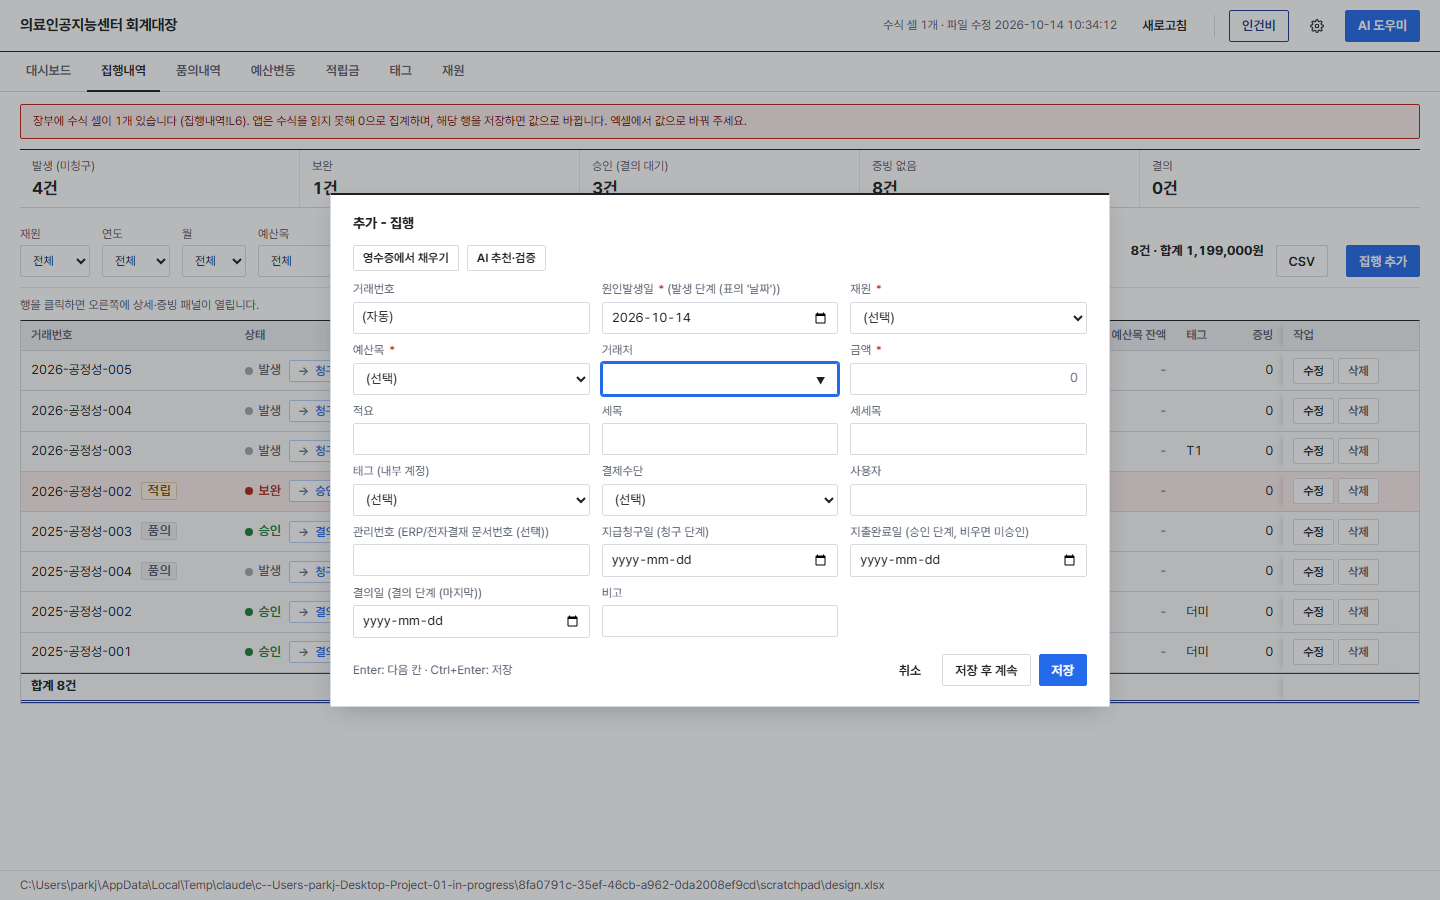
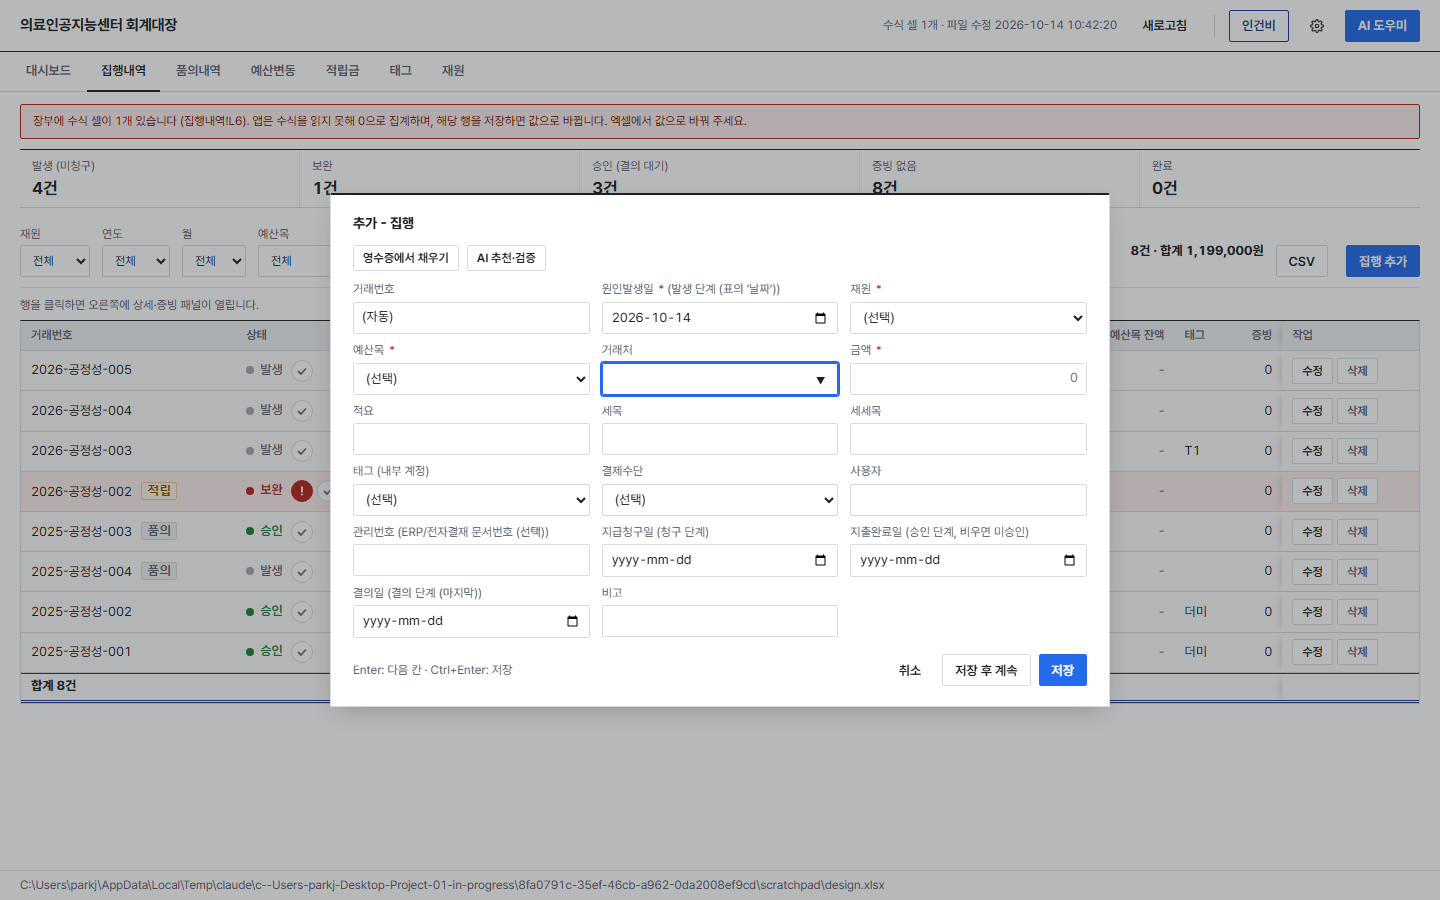
집행내역: 보완 토글(!) 아이콘, 결의 등록 시 '완료' 표시, 거래별 누적 예산목 잔액

diff --git a/app/static/app.js b/app/static/app.js
@@ -13,8 +13,8 @@ const mmdd = d => (typeof d === "string" && /^\d{4}-\d{2}-\d{2}$/.test(d)) ? d.s
 const IDENT = { funds: ["재원코드"], exec: ["거래번호"], req: ["품의번호"], tags: ["태그명"], budget: ["재원", "변경회차", "신청일자"], deposit: ["일자", "거래처", "구분", "금액"] };
 const F = k => document.getElementById("f-" + k);
 // 단계 ↔ 날짜: 발생=원인발생일, 청구=지급청구일, (보완=수동 표시), 승인=지출완료일, 결의=결의일
-const STATUS_LABEL = { 발생: "발생", 청구: "청구", 보완: "보완", 완료: "승인", 결의: "결의" };
-const STATUS_HELP = { 발생: "원인발생일만 있음. 다음: 청구(지급청구일)", 청구: "지급청구일 등록됨. 다음: 승인(지출완료일)", 보완: "서류·증빙 보완이 필요하다고 표시한 건", 완료: "지출완료일 등록됨(승인). 다음: 결의(결의일)", 결의: "결의일 등록됨 (마지막 단계)" };
+const STATUS_LABEL = { 발생: "발생", 청구: "청구", 보완: "보완", 완료: "승인", 결의: "완료" };  // 결의일이 등록되면 '완료'로 표시
+const STATUS_HELP = { 발생: "원인발생일만 있음. 다음: 청구(지급청구일)", 청구: "지급청구일 등록됨. 다음: 승인(지출완료일)", 보완: "서류·증빙 보완이 필요하다고 표시한 건 (청구 단계)", 완료: "지출완료일 등록됨(승인). 다음: 결의(결의일)", 결의: "결의일 등록됨, 완료" };
 // 상태 열의 다음 단계 버튼: [동작, 라벨, 설명]
 const NEXT_STEP = { 발생: ["claim", "청구", "지급청구일을 오늘로 등록"], 청구: ["complete", "승인", "지출완료일을 오늘로 등록"], 보완: ["complete", "승인", "지출완료일을 오늘로 등록 (보완 해제)"], 완료: ["resolve", "결의", "결의일을 오늘로 등록 (마지막 단계)"] };
 const DATE_STAGE = { 원인발생일: "발생", 지급청구일: "청구", 지출완료일: "승인", 결의일: "결의" };  // 폼 필드 (예산목 이름에 괄호·점이 있어 CSS 선택자 불가)
@@ -28,7 +28,7 @@ const COLS = {
   exec: [
     { k: "거래번호", w: 1 }, { k: "상태", t: "badge" }, { k: "관리번호", minor: true }, { k: "원인발생일", t: "date", label: "날짜" }, { k: "지급청구일", t: "date", hide: true },
     { k: "지출완료일", t: "date", hide: true }, { k: "결의일", t: "date", hide: true }, { k: "재원" }, { k: "예산목" }, { k: "세목" }, { k: "세세목", minor: true },
-    { k: "거래처", hide: true }, { k: "적요", t: "title", sub: "거래처" }, { k: "결제수단" }, { k: "금액", t: "num", amt: true }, { k: "예산목 잔액", t: "num", calc: r => availableBudget(r["재원"], r["예산목"]), title: "이 건의 재원·예산목 가용잔액 (예산현액 − 집행 − 품의대기)" }, { k: "사용자", minor: true }, { k: "태그" }, { k: "증빙", t: "num", calc: r => evidCount(r), title: "등록된 증빙 파일 수" }, { k: "비고", wrap: true, minor: true },
+    { k: "거래처", hide: true }, { k: "적요", t: "title", sub: "거래처" }, { k: "결제수단" }, { k: "금액", t: "num", amt: true }, { k: "예산목 잔액", t: "num", calc: r => runningBalance(r), title: "이 거래까지 반영한 재원·예산목 잔액 (예산현액 − 원인발생일 순 누적 집행). 품의대기는 제외" }, { k: "사용자", minor: true }, { k: "태그" }, { k: "증빙", t: "num", calc: r => evidCount(r), title: "등록된 증빙 파일 수" }, { k: "비고", wrap: true, minor: true },
   ],
   req: [
     { k: "품의번호" }, { k: "상태", t: "badge" }, { k: "원인발생일", t: "date" }, { k: "지출예정일", t: "date" }, { k: "재원" },
@@ -130,7 +130,7 @@ async function api(method, url, body) {
 
 async function load() {
   try {
-    DATA = await api("GET", "/api/all");
+    DATA = await api("GET", "/api/all"); RUN_BAL = null;
     COLS.budget = [{ k: "재원" }, { k: "변경회차" }, { k: "신청일자", t: "date" }, { k: "변경사유", wrap: true },
       ...DATA.meta.budget_items.map((i, n) => ({ k: i, t: "num", amt: n === 0 })), { k: "합계", t: "num", calc: r => DATA.meta.budget_items.reduce((a, i) => a + (r[i] || 0), 0) }];
     renderStatus();
@@ -278,7 +278,8 @@ function renderList(kind) {
       }
       if (c.t === "badge") {
         const nx = kind === "exec" ? NEXT_STEP[v] : null;
-        return `<td class="st-cell"><span class="badge ${esc(v)}" title="${esc(STATUS_HELP[v] || "")}">${esc(STATUS_LABEL[v] || v)}</span>${nx ? `<button type="button" class="next" data-act="xact" data-action="${nx[0]}" data-row="${r._row}" title="다음 단계로: ${esc(nx[1])} (${esc(nx[2])})" aria-label="다음 단계로: ${esc(nx[1])}"><svg viewBox="0 0 12 12" aria-hidden="true" focusable="false"><path d="M2.5 6.5l2.5 2.5 4.5-5" fill="none" stroke="currentColor" stroke-width="1.8" stroke-linecap="round" stroke-linejoin="round"/></svg></button>` : ""}</td>`;
+        const fixBtn = kind === "exec" && (v === "청구" || v === "보완") ? `<button type="button" class="fixtg${v === "보완" ? " on" : ""}" data-act="xact" data-action="${v === "보완" ? "unfix" : "fix"}" data-row="${r._row}" title="${v === "보완" ? "보완 해제" : "보완 필요로 표시"}" aria-label="${v === "보완" ? "보완 해제" : "보완 필요로 표시"}" aria-pressed="${v === "보완"}"><svg viewBox="0 0 12 12" aria-hidden="true" focusable="false"><path d="M6 2.2v4.6" stroke="currentColor" stroke-width="1.8" stroke-linecap="round"/><circle cx="6" cy="9.4" r="1" fill="currentColor"/></svg></button>` : "";
+        return `<td class="st-cell"><span class="badge ${esc(v)}" title="${esc(STATUS_HELP[v] || "")}">${esc(STATUS_LABEL[v] || v)}</span>${fixBtn}${nx ? `<button type="button" class="next" data-act="xact" data-action="${nx[0]}" data-row="${r._row}" title="다음 단계로: ${esc(nx[1])} (${esc(nx[2])})" aria-label="다음 단계로: ${esc(nx[1])}"><svg viewBox="0 0 12 12" aria-hidden="true" focusable="false"><path d="M2.5 6.5l2.5 2.5 4.5-5" fill="none" stroke="currentColor" stroke-width="1.8" stroke-linecap="round" stroke-linejoin="round"/></svg></button>` : ""}</td>`;
       }
       if (c.t === "title") return `<td class="tit" title="${esc([v, r[c.sub]].filter(Boolean).join(" · "))}"><div class="t">${esc(v || "")}</div>${r[c.sub] ? `<div class="s">${esc(r[c.sub])}</div>` : ""}</td>`;
       if (kind === "exec" && c.k === "거래번호") return `<td class="nowrap">${esc(v)}${originBadge(r)}</td>`;
@@ -700,6 +701,22 @@ $("#dlg-save-more").addEventListener("click", () => { $("#dlg").dataset.saveMore
 
 // 가용잔액 = 예산현액 − 집행(파일 전체) − 대기 품의(날짜 무관). 대시보드·집행내역 열·저장 경고가 모두 이 함수를 쓴다 (2026-10-13 결정).
 // excludeReq / excludeExec: 품의→집행 전환 중인 품의, 수정 중인 집행 행은 빼고 계산 (이중 차감 방지)
+// 거래별 누적 잔액: 같은 재원·예산목의 집행을 원인발생일(같으면 행 순)으로 쌓아 "이 거래까지 반영한 뒤" 남는 예산. 예산 미입력이면 null
+let RUN_BAL = null;
+function runningBalance(r) {
+  if (!RUN_BAL) {
+    RUN_BAL = new Map();
+    const groups = {};
+    DATA.exec.forEach(x => { const k = x["재원"] + "" + x["예산목"]; (groups[k] = groups[k] || []).push(x); });
+    Object.values(groups).forEach(list => {
+      const f = list[0]["재원"], i = list[0]["예산목"];
+      const b = DATA.budget.filter(x => x["재원"] === f).reduce((a, x) => a + (x[i] || 0), 0);
+      list.sort((a, c) => (a["원인발생일"] || "").localeCompare(c["원인발생일"] || "") || a._row - c._row);
+      let acc = 0; list.forEach(x => { acc += x["금액"] || 0; RUN_BAL.set(x._row, b ? b - acc : null); });
+    });
+  }
+  return RUN_BAL.get(r._row) ?? null;
+}
 function availableBudget(fund, item, opts = {}) {
   if (!fund || !item) return null;
   const b = DATA.budget.filter(r => r["재원"] === fund).reduce((a, r) => a + (r[item] || 0), 0);
@@ -1203,7 +1220,7 @@ function renderExecTiles() {
     ["fix", "보완", n(r => r["상태"] === "보완")],
     ["done", "승인 (결의 대기)", n(r => r["상태"] === "완료")],
     ["noevid", "증빙 없음", n(r => !hasEvidence(r))],
-    ["resolved", "결의", n(r => r["상태"] === "결의")],
+    ["resolved", "완료", n(r => r["상태"] === "결의")],
   ];
   $("#exec-tiles").innerHTML = tiles.map(([k, l, c]) => `<div class="card ${QUICK === k ? "on" : ""}" role="button" tabindex="0" data-quick="${k}" aria-pressed="${QUICK === k}"><div class="k">${l}</div><div class="v">${c}건</div></div>`).join("");
 }
@@ -1248,8 +1265,8 @@ async function renderExecDrawer(fetchEvid) {
   if (st === "발생") acts.push(["claim", "청구 (지급청구일 등록)", true]);
   if (st === "청구") { acts.push(["complete", "승인 (지출완료일 등록)", true]); acts.push(["fix", "보완 표시", false]); }
   if (st === "보완") { acts.push(["complete", "승인 (지출완료일 등록)", true]); acts.push(["unfix", "보완 해제", false]); }
-  if (st === "완료") { acts.push(["resolve", "결의 (결의일 등록)", true]); acts.push(["uncomplete", "승인 취소", false]); }
-  if (st === "결의") { acts.push(["unresolve", "결의 취소", false]); }
+  if (st === "완료") { acts.push(["resolve", "결의 (결의일 등록 → 완료)", true]); acts.push(["uncomplete", "승인 취소", false]); }
+  if (st === "결의") { acts.push(["unresolve", "결의 취소 (승인으로 되돌림)", false]); }
   const evid = XD.evid || [];
   const kinds = [...new Set(evid.map(e => e["증빙종류"]).filter(Boolean))];
   const drive = XD.drive || {};

diff --git a/app/static/style.css b/app/static/style.css
@@ -418,3 +418,11 @@ table.grid td.st-cell { white-space: nowrap; }
 table.grid td.st-cell .next { display: inline-flex; align-items: center; justify-content: center; width: 22px; height: 22px; margin-left: 8px; padding: 0; border: 1px solid var(--rule); border-radius: 50%; background: #fff; color: var(--ink-3); cursor: pointer; vertical-align: middle; }
 table.grid td.st-cell .next svg { width: 12px; height: 12px; }
 table.grid td.st-cell .next:hover, table.grid td.st-cell .next:focus-visible { color: #fff; background: var(--primary); border-color: var(--primary); outline: none; }
+
+/* 상태 칸: 보완 토글(!) */
+table.grid td.st-cell .fixtg { display: inline-flex; align-items: center; justify-content: center; width: 22px; height: 22px; margin-left: 8px; padding: 0; border: 1px solid var(--rule); border-radius: 50%; background: #fff; color: var(--ink-3); cursor: pointer; vertical-align: middle; }
+table.grid td.st-cell .fixtg svg { width: 12px; height: 12px; }
+table.grid td.st-cell .fixtg:hover, table.grid td.st-cell .fixtg:focus-visible { color: var(--alert); border-color: var(--alert); outline: none; }
+table.grid td.st-cell .fixtg.on { color: #fff; background: var(--alert); border-color: var(--alert); }
+table.grid td.st-cell .fixtg.on:hover { background: var(--alert-deep); }
+table.grid td.st-cell .fixtg + .next { margin-left: 4px; }

diff --git a/app/README.md b/app/README.md
@@ -46,9 +46,9 @@
 
 ### 집행내역 탭
 
-- **상태** 열: 발생(원인발생일) → 청구(지급청구일) → 보완(직접 표시) → 승인(지출완료일) → 결의(결의일, 마지막). 날짜가 우선이며 '보완'만 수동입니다. 표에는 원인발생일만 '날짜'로 보이고 나머지 날짜는 행을 클릭한 상세 패널에서 봅니다. 상태 칸 옆의 체크(✓) 버튼이 오늘 날짜로 다음 단계(청구→승인→결의)를 등록하고, 되돌리기와 보완 표시는 상세 패널의 '다음 처리'에서 합니다. 결의를 바로 등록하면 비어 있는 청구일·완료일도 같은 날짜로 채워집니다.
+- **상태** 열: 발생(원인발생일) → 청구(지급청구일) → 보완(직접 표시) → 승인(지출완료일) → 완료(결의일 등록). 날짜가 우선이며 '보완'만 수동입니다. 표에는 원인발생일만 '날짜'로 보이고 나머지 날짜는 행을 클릭한 상세 패널에서 봅니다. 상태 칸 옆의 체크(✓) 버튼이 오늘 날짜로 다음 단계(청구→승인→결의=완료)를 등록합니다. 청구 단계에서는 느낌표(!) 버튼으로 보완을 켜고 끄며, 단계 되돌리기는 상세 패널의 '다음 처리'에서 합니다. 결의를 바로 등록하면 비어 있는 청구일·완료일도 같은 날짜로 채워집니다.
 - 표의 버튼: 지급청구일 칸 **[청구일=오늘]**, 지출완료일 칸 **[보완]/[보완해제]**, **[완료일=오늘]**. 완료된 건에는 청구 버튼이 보이지 않습니다. 완료를 취소하려면 행을 클릭해 상세 패널의 **[완료 취소]**.
-- 상단 타일(발생·보완·승인·증빙 없음·결의)을 누르면 해당 건만 필터됩니다.
+- 상단 타일(발생·보완·승인·증빙 없음·완료)을 누르면 해당 건만 필터됩니다.
 - 적요 칸 아래에 거래처가 작은 글자로 붙고(ref 집행현황 구조), 결제수단 열은 품의와 같은 목록(연구비카드·계좌이체·연구자선지출·공금통장·적립금·기타)을 씁니다. 품의→집행 전환 시 결제수단이 넘어오고, 인건비 확정 집행은 계좌이체, 청구일·완료일·결의일=지급일로 기록됩니다.
 - 열 머리글을 누르면 정렬됩니다. 검색은 쉼표를 무시합니다(150,000 = 150000). "상세 열"을 켜면 관리번호·세세목·사용자·비고 열이 보입니다. 작업 열은 오른쪽에 고정되어 가로 스크롤을 해도 보입니다.
 - 행을 클릭하면 오른쪽 상세 패널이 열립니다(정보 요약·수정, 다음 처리, 증빙). Esc나 다른 탭으로 이동하면 닫힙니다.
@@ -176,7 +176,7 @@ claude mcp add ledger -s user -- python "C:/Users/parkj/Desktop/Project/01 in pr
 | 증빙 | 앱이 신설. 집행 건별 증빙 파일 기록 (드라이브 파일 ID 포함) |
 | 대시보드 | 사용하지 않음 (대시보드는 웹에서만) |
 
-집계 규칙: 예산현액 = 재원·예산목별 (이월+당초+변경) 합계. 집행액 = 집행내역 금액 합계(원인발생일 기준, 미완료 건 포함). 품의대기 = 상태 '대기' 품의 합계. 가용잔액 = 예산현액 − 집행액(파일 전체) − 품의대기(날짜 무관). 집행내역의 '예산목 잔액' 열과 저장 전 경고도 같은 값을 쓰며, 품의→집행 전환과 수정 시에는 해당 행 자신을 빼고 계산합니다. 인건비 선급·미지급은 직전 달까지의 발생액 기준입니다.
+집계 규칙: 예산현액 = 재원·예산목별 (이월+당초+변경) 합계. 집행액 = 집행내역 금액 합계(원인발생일 기준, 미완료 건 포함). 품의대기 = 상태 '대기' 품의 합계. 가용잔액 = 예산현액 − 집행액(파일 전체) − 품의대기(날짜 무관). 저장 전 경고도 같은 값을 쓰며(집행내역의 '예산목 잔액' 열은 그 거래까지 원인발생일 순으로 누적한 시점 잔액으로, 품의대기는 빼지 않음), 품의→집행 전환과 수정 시에는 해당 행 자신을 빼고 계산합니다. 인건비 선급·미지급은 직전 달까지의 발생액 기준입니다.
 
 ## 10. 자주 묻는 문제
 
